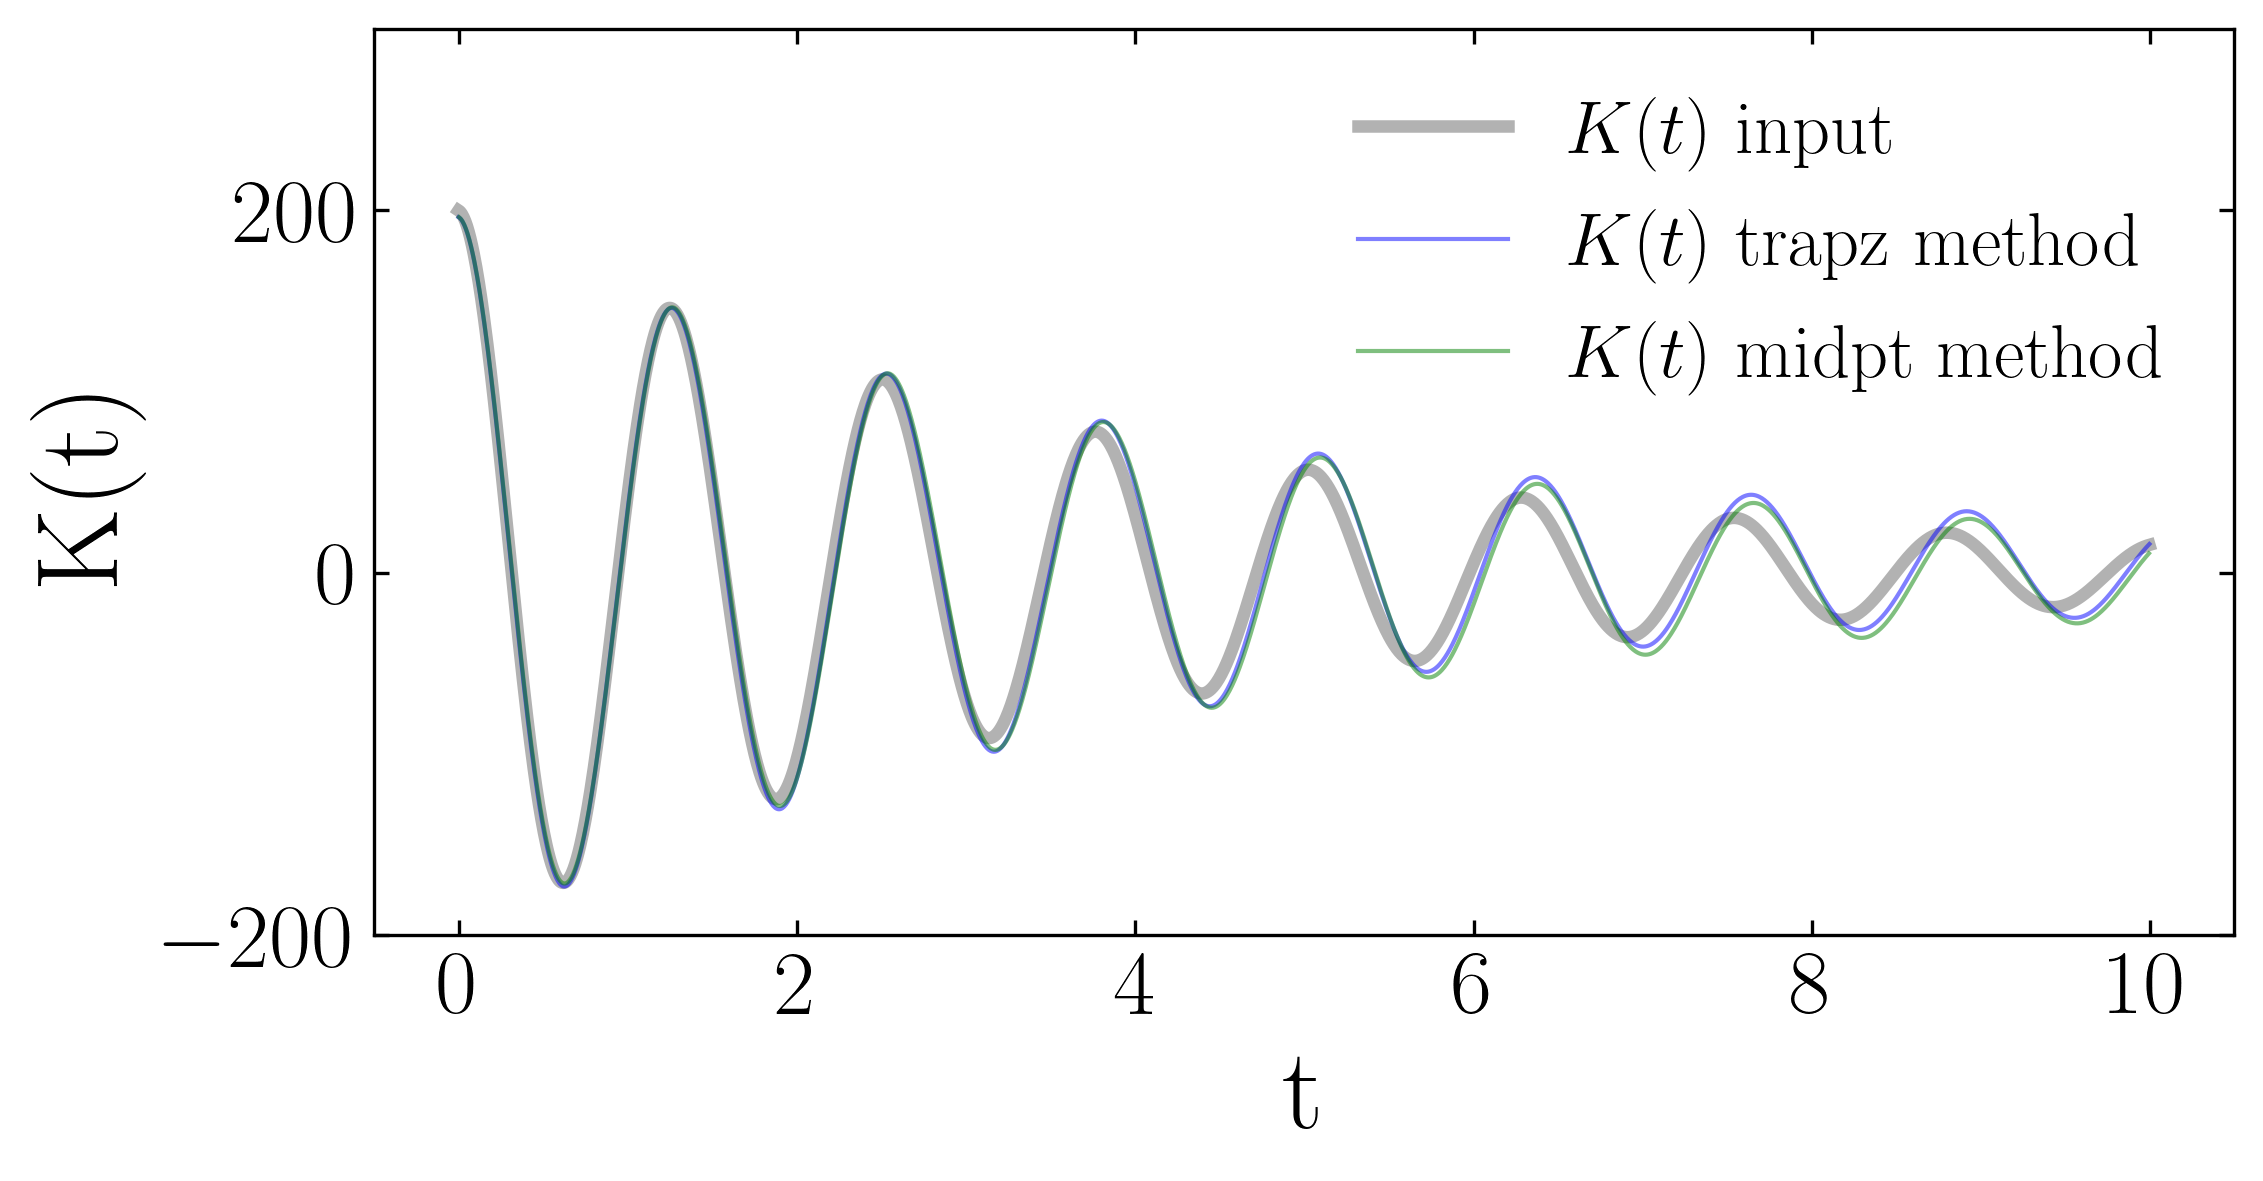
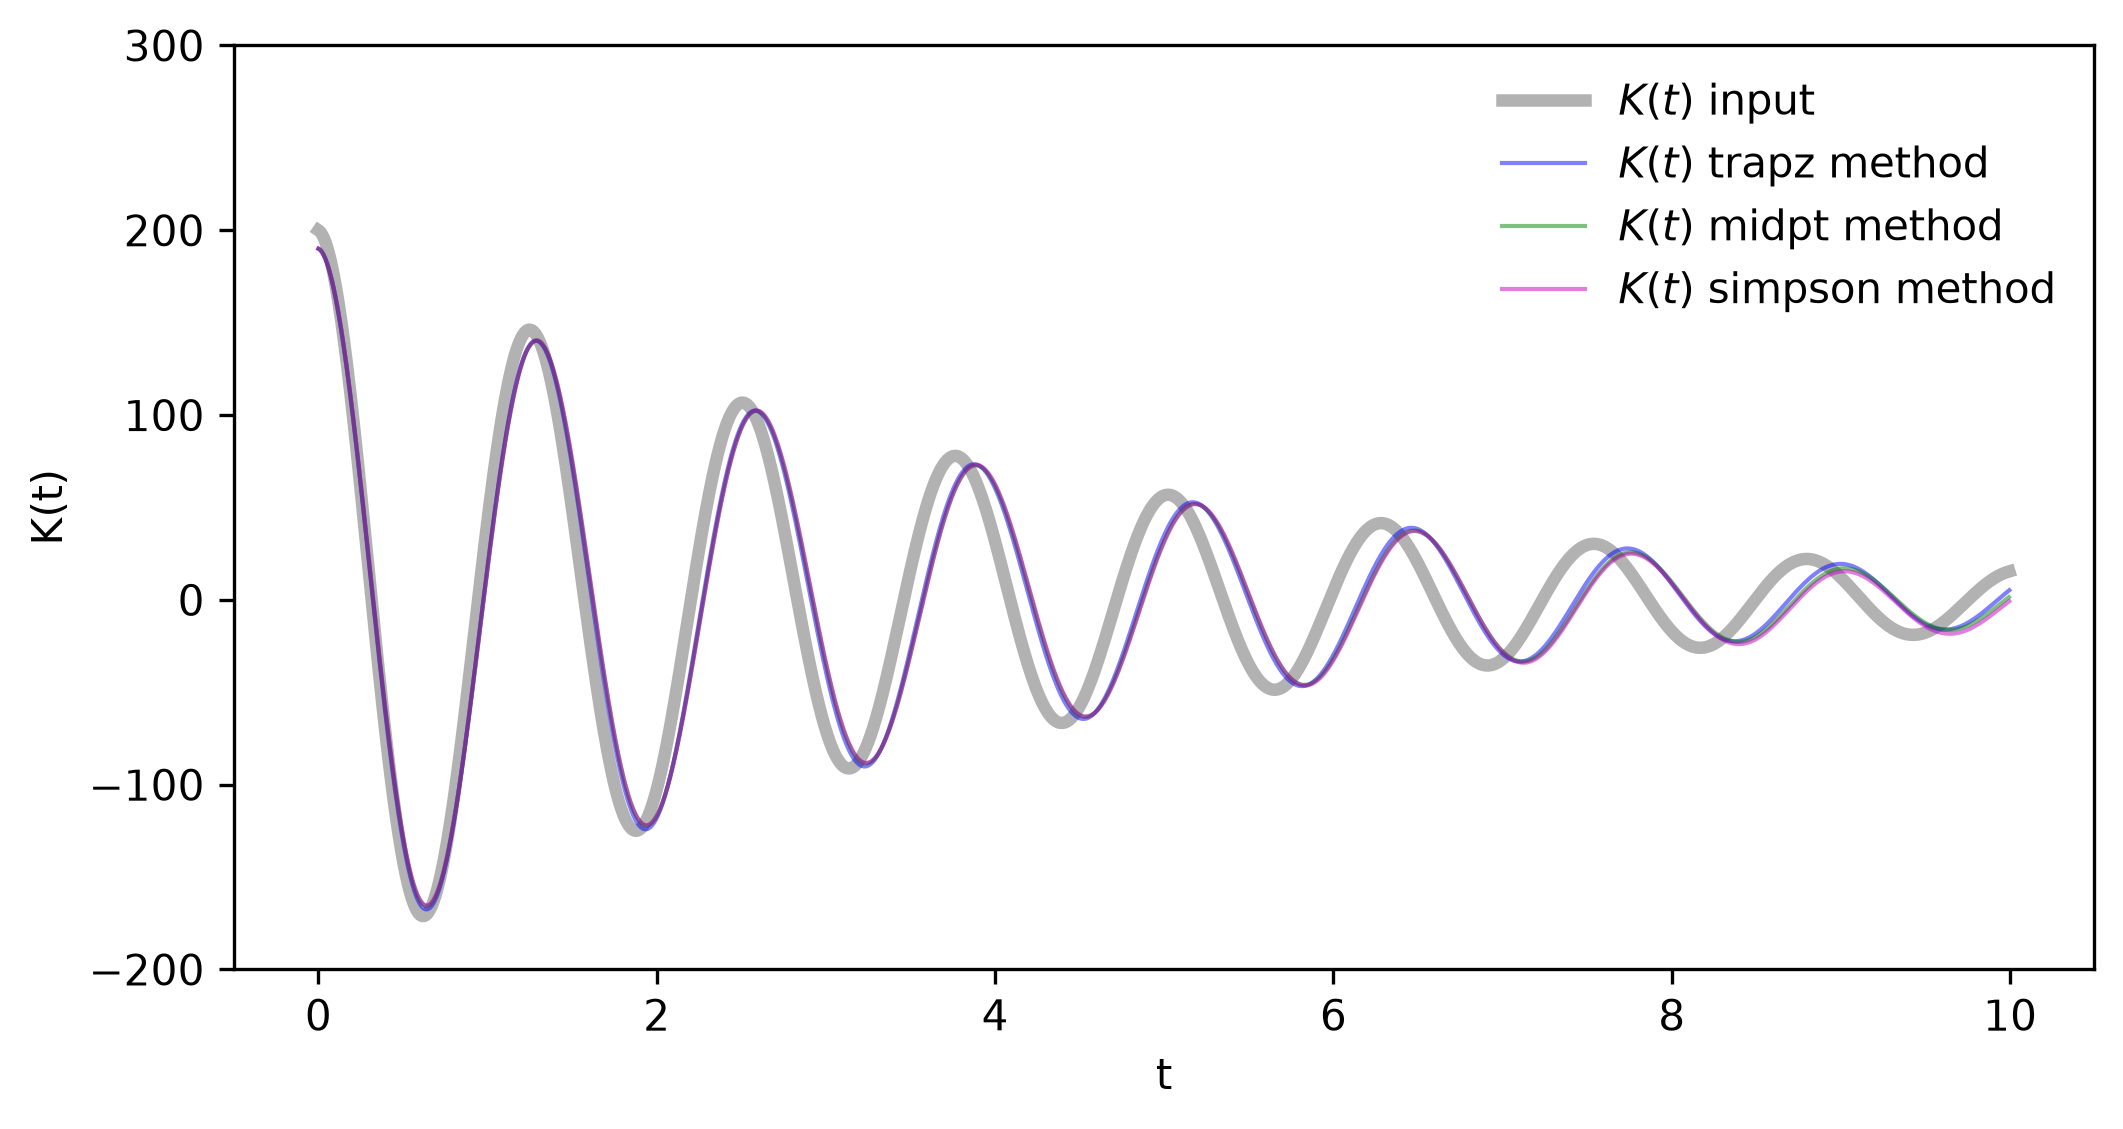
updated and improved efficiency of memory scripts, added simpson real time volterra solver

diff --git a/gleqpy/memory/time.py b/gleqpy/memory/time.py
@@ -12,8 +12,15 @@ kernels using numpy arrays.
 """
 
 import numpy as np
-from scipy.signal import correlate as spcorrelate
+from scipy.fft import next_fast_len
 from scipy.optimize import curve_fit
+
+# np.trapz was renamed to np.trapezoid in numpy 2.0 (np.trapz is deprecated).
+# Fall back to np.trapz on numpy < 2.0.
+try:
+    from numpy import trapezoid as _trapezoid
+except ImportError:  # numpy < 2.0
+    from numpy import trapz as _trapezoid
 
 
 ########## Tools for time-correlation functions and memory kernel extraction 
@@ -46,22 +53,27 @@ def calc_tcf(obs1, obs2, max_t, stride=1, mode="scipy"):
     nt = np.size(obs1,axis=0)
     nDoF = np.size(obs1,axis=1)
 
-    tcf = np.zeros((max_t//stride,nDoF),dtype=np.float64)
-    
     #use direct method
     if mode == "direct":
+        tcf = np.zeros((max_t//stride,nDoF),dtype=np.float64)
         i = 0
         for t in range(0,max_t,stride):
             tcf_t = 1.0/(nt - t) * np.sum(obs1[t:] * obs2[0:nt-t], axis=0)
             tcf[i,:] = tcf_t
             i += 1
-            
+
     elif mode == "fft" or mode=="scipy":
-        for i in range(nDoF):
-            corr = spcorrelate(obs1[:,i],obs2[:,i],mode="same")[nt//2 : nt//2 + max_t : stride]
-            tcf[:,i] = corr/np.arange(nt,nt-max_t,-1)
-            
-            
+        # Batched, unbiased cross-correlation <obs1(t) obs2(0)> for all DoF at
+        # once via a single real FFT.  Zero-pad to >= nt+max_t-1 (enough to keep
+        # lags 0..max_t-1 free of circular wrap-around) so the transform is no
+        # larger than the lags actually requested.
+        n = next_fast_len(nt + max_t - 1)
+        F1 = np.fft.rfft(obs1, n, axis=0)
+        F2 = np.fft.rfft(obs2, n, axis=0)
+        corr = np.fft.irfft(F1 * np.conj(F2), n, axis=0)[:max_t]
+        corr /= np.arange(nt, nt - max_t, -1)[:, None]  # unbiased normalization
+        tcf = corr[::stride]
+
     else:
         raise ValueError("mode must be either direct or fft")
 
@@ -100,7 +112,7 @@ def calc_matrix_tcf(obs1,obs2,max_t,stride=1):
 def calc_memory_fft(vel_tcf, frc_tcf, dt):
     r"""
     Calculate memory kernel using fourier transform and convolution thm.
-    
+
     <F(t),v(0)> = -\int K(t)<v(t),v(0)>
     K(\omega) = -C_F(\omega) * C_V^{-1}(\omega)
     K(t) = ifft(K(\omega))
@@ -113,7 +125,7 @@ def calc_memory_fft(vel_tcf, frc_tcf, dt):
         Force time correlation function. <F(t),v(0)>
     dt: Float.
         Time window spacing (must be in same units as vel_tcf and frc_tcf)
-        
+
     Returns
     -------
     memory : Numpy Array.
@@ -121,14 +133,14 @@ def calc_memory_fft(vel_tcf, frc_tcf, dt):
     """
     if len(vel_tcf.shape) > 1 or len(frc_tcf.shape) > 1:
         raise ValueError("TCF input must be 1D Numpy Array")
-        
+
     #Calculate fourier transforms of velocity/force autocorrelation functions
     vel_matrix_fft = np.fft.fft(vel_tcf)
     frc_matrix_fft = np.fft.fft(frc_tcf)
-    
+
     #Calculate memory kernel
     memory = np.fft.ifft(-frc_matrix_fft/vel_matrix_fft,axis=0)
-    
+
     return memory/dt
 
 def calc_memory_midpt(vel_tcf, frc_tcf, dt, K_0=None):
@@ -177,14 +189,11 @@ def calc_memory_midpt(vel_tcf, frc_tcf, dt, K_0=None):
         
     # Loop through remaining indices
     for t in range(1, Nt-1):
-        flip_v = np.flip(vel_tcf_mid[1:t+1],axis=0)
-        
-        temp = - frc_tcf[t+1]/dt - np.sum( K[0:t] *  flip_v )
-              
-        K_t = vel_tcf_inv0 * temp
-           
-        K[t] = K_t
-    
+        # convolution sum via BLAS dot over the reversed midpoint window
+        temp = - frc_tcf[t+1]/dt - np.dot(K[0:t], vel_tcf_mid[t:0:-1])
+
+        K[t] = vel_tcf_inv0 * temp
+
     return K
 
 def calc_memory_dtrapz(dvel_tcf, dfrc_tcf, vel_tcf_0, dt, K_0=None):
@@ -232,22 +241,105 @@ def calc_memory_dtrapz(dvel_tcf, dfrc_tcf, vel_tcf_0, dt, K_0=None):
     
     # Loop through remaining indices
     for t in range(1, Nt):
-            
-        flip_v = np.flip(dvel_tcf[1:t+1],axis=0)
-        
-        temp1 = K[0] * flip_v[0]
-        
-        if t==1:
-            temp2 = 0
+        # Convolution sum over the reversed dvel window via a BLAS dot product
+        # (flip_v[0]=dvel[t], flip_v[1:]=dvel[t-1:0:-1]); avoids the per-step
+        # flip and elementwise temporary of the original implementation.
+        temp1 = K[0] * dvel_tcf[t]
+
+        if t == 1:
+            temp2 = 0.0
         else:
-            temp2 = 2 * np.sum( K[1:t] * flip_v[1:] )
-        
+            temp2 = 2 * np.dot(K[1:t], dvel_tcf[t-1:0:-1])
+
         temp = -dfrc_tcf[t] - dt/2 * (temp1 + temp2)
-        
-        K_t = vel_invt * temp
-           
-        K[t] = K_t
-    
+
+        K[t] = vel_invt * temp
+
+    return K
+
+def _simpson_weights(n):
+    r"""
+    Composite quadrature weights for \int_0^{n*dt} h(tau) dtau ~ dt * sum_j w_j h_j,
+    on the (n+1) equally spaced nodes j = 0..n.
+
+    Uses composite Simpson's rule when n is even.  When n is odd it applies
+    Simpson over the first n-1 (even) intervals and the trapezoidal rule over
+    the final interval, so the scheme is well defined for every n while keeping
+    O(dt^4) accuracy on the bulk of the interval.  For n == 1 it reduces to the
+    trapezoidal rule.
+    """
+    w = np.zeros(n + 1)
+    if n == 0:
+        return w
+    if n % 2 == 0:
+        w[0] = 1/3; w[n] = 1/3
+        w[1:n:2] = 4/3
+        w[2:n:2] = 2/3
+    elif n == 1:
+        w[0] = 1/2; w[1] = 1/2
+    else:
+        m = n - 1  # even -> Simpson over [0, m*dt]
+        w[0] = 1/3; w[m] = 1/3
+        w[1:m:2] = 4/3
+        w[2:m:2] = 2/3
+        w[m] += 1/2  # + trapezoid over the last interval [m, n]
+        w[n] = 1/2
+    return w
+
+def calc_memory_dsimpson(dvel_tcf, dfrc_tcf, vel_tcf_0, dt, K_0=None):
+    r"""
+    Calculate memory kernel in real-time using the derivative formula and
+    Simpson (higher-order) quadrature.
+
+    Solves the same second-kind Volterra equation as ``calc_memory_dtrapz``,
+
+        -Cfv'(t) = K(t) C_v(0) + \int_0^t K(tau) C_v'(t-tau) dtau,
+
+    but discretizes the convolution integral with composite Simpson weights
+    (see ``_simpson_weights``) instead of the trapezoidal rule.  For smooth
+    kernels this improves the error from O(dt^2) to ~O(dt^4).
+
+    Parameters
+    ----------
+    dvel_tcf: Numpy Array. (Nt)
+        Time derivative of velocity time correlation function.
+    dfrc_tcf: Numpy Array. (Nt)
+        Time derivative of force time correlation function.
+    vel_tcf_0: Float.
+        Mean-square velocity, C_v(0).
+    dt: Float.
+        Time window spacing (must be in same units as vel_tcf and frc_tcf).
+    K_0: Numpy Array. Optional.
+        Initial value of memory kernel.
+
+    Returns
+    -------
+    K : Numpy Array.
+        Memory Kernel. K(t)
+    """
+    if len(dvel_tcf.shape) > 1 or len(dfrc_tcf.shape) > 1:
+        raise ValueError("TCF input must be a 1D Numpy Array")
+
+    Nt = np.size(dvel_tcf)
+    g = dvel_tcf          # C_v'(tau)
+    f = -dfrc_tcf         # right-hand side, -Cfv'(t)
+
+    K = np.zeros(Nt, dtype=np.float64)
+
+    # Set initial value (K(0) is not constrained by the quadrature)
+    if K_0 is not None:
+        K[0] = K_0
+    else:
+        K[0] = f[0] / vel_tcf_0
+
+    # March forward.  At step n the trapz/Simpson quadrature of the convolution
+    # is dt * sum_{j=0}^{n} w_j K[j] g[n-j]; the j=n term (weight w_n, g[0])
+    # multiplies the unknown K[n], so the update is implicit but scalar.
+    for n in range(1, Nt):
+        w = _simpson_weights(n)
+        known = dt * np.dot(w[:n] * K[:n], g[n:0:-1])
+        K[n] = (f[n] - known) / (vel_tcf_0 + dt * w[n] * g[0])
+
     return K
 
 def calc_matrix_memory_fft(vel_tcf, frc_tcf, dt):
@@ -325,14 +417,11 @@ def calc_matrix_memory_midpt(vel_tcf, frc_tcf, dt, K_0=None):
         
     # Loop through remaining indices
     for t in range(1, Nt):
-        flip_v = np.flip(vel_tcf_mid[1:t+1],axis=0)
-        
-        temp = - frc_tcf[t+1]/dt - np.einsum("tij,tjk->ik", K[0:t] , flip_v)
-              
-        K_t = np.linalg.solve( vel_tcf_mid[0].T, temp.T).T
-           
-        K[t] = K_t
-    
+        # convolution sum over the reversed midpoint window (no per-step flip)
+        temp = - frc_tcf[t+1]/dt - np.einsum("tij,tjk->ik", K[0:t], vel_tcf_mid[t:0:-1])
+
+        K[t] = np.linalg.solve( vel_tcf_mid[0].T, temp.T).T
+
     return K
 
 def calc_matrix_memory_dtrapz(dvel_tcf, dfrc_tcf, vel_tcf_0, dt, K_0=None):
@@ -377,22 +466,18 @@ def calc_matrix_memory_dtrapz(dvel_tcf, dfrc_tcf, vel_tcf_0, dt, K_0=None):
     
     # Loop through remaining indices
     for t in range(1, Nt):
-            
-        flip_v = np.flip(dvel_tcf[1:t+1],axis=0)
-        
-        temp1 = np.einsum("ij,jk->ik", K[0] , flip_v[0])
-        
-        if t==1:
-            temp2 = 0
+        # convolution sum over the reversed dvel window (no per-step flip)
+        temp1 = K[0] @ dvel_tcf[t]
+
+        if t == 1:
+            temp2 = 0.0
         else:
-            temp2 = 2 * np.einsum("tij,tjk->ik", K[1:t] , flip_v[1:])
-        
+            temp2 = 2 * np.einsum("tij,tjk->ik", K[1:t], dvel_tcf[t-1:0:-1])
+
         temp = -dfrc_tcf[t] - dt/2 * (temp1 + temp2)
-        
-        K_t = np.dot(temp, vel_invt)
-           
-        K[t] = K_t
-    
+
+        K[t] = temp @ vel_invt
+
     return K
 
 ########## Useful matrix functions
@@ -432,7 +517,7 @@ def matrixexp(mat, t,  Hermitian=True, return_eig=False):
     diag[:,indx,indx] = np.exp( np.outer(t,eige) )
                   
     if Hermitian:
-        mexp = eigv @ diag @ eigv.T
+        mexp = eigv @ diag @ eigv.conj().T
     else:
         mexp = eigv @ diag @ np.linalg.inv(eigv)
     
@@ -477,7 +562,7 @@ def matrixexp_deriv(mat, t,  Hermitian=True, return_eig=False):
     diag[:,indx,indx] = np.exp( np.outer(t,eige) )/eige
                   
     if Hermitian:
-        mexp = eigv @ diag @ eigv.T
+        mexp = eigv @ diag @ eigv.conj().T
     else:
         mexp = eigv @ diag @ np.linalg.inv(eigv)
     
@@ -544,7 +629,7 @@ def matrixfunc(func, mat, t, Hermitian=True, return_eig=False):
     diag[:,indx,indx] = func( np.outer(t,eige) )
     
     if Hermitian:
-        mfunc = eigv @ diag @ eigv.T
+        mfunc = eigv @ diag @ eigv.conj().T
     else:
         mfunc = eigv @ diag @ np.linalg.inv(eigv)
 
@@ -582,7 +667,7 @@ def matrix_cos(modes, freq, t, Hermitian=True):
     M = np.zeros((Nt,Ndof,Ndof),dtype=np.float64)
     M[:,indx,indx] = np.cos( np.outer(t, freq ) ) 
     if Hermitian:
-        M = modes @ M @ modes.T
+        M = modes @ M @ modes.conj().T
     else:
         M = modes @ M @ np.linalg.inv(modes)
     return M
@@ -615,7 +700,7 @@ def matrix_sin(modes, freq, t, Hermitian=True):
     M = np.zeros((Nt,Ndof,Ndof),dtype=np.float64)
     M[:,indx,indx] = np.sin( np.outer(t, freq ) ) 
     if Hermitian:
-        M = modes @ M @ modes.T
+        M = modes @ M @ modes.conj().T
     else:
         M = modes @ M @ np.linalg.inv(modes)
     return M
@@ -668,7 +753,7 @@ def calc_ou_var(B, A, nt, dt, Avs = None, Asv = None, method="full"):
             # Calculate B @ B.T
             B_sq = B @ B.T
             integrand = A_mexp @ B_sq @ A_mexp.swapaxes(1,2)
-            var0 = np.trapz(integrand, t_arr, axis=0)
+            var0 = _trapezoid(integrand, t_arr, axis=0)
             statvar = np.real( Avs @ var0 @ Asv ) # stationary variance
         
     #If operators A, A.T, B, and B.T do commute
